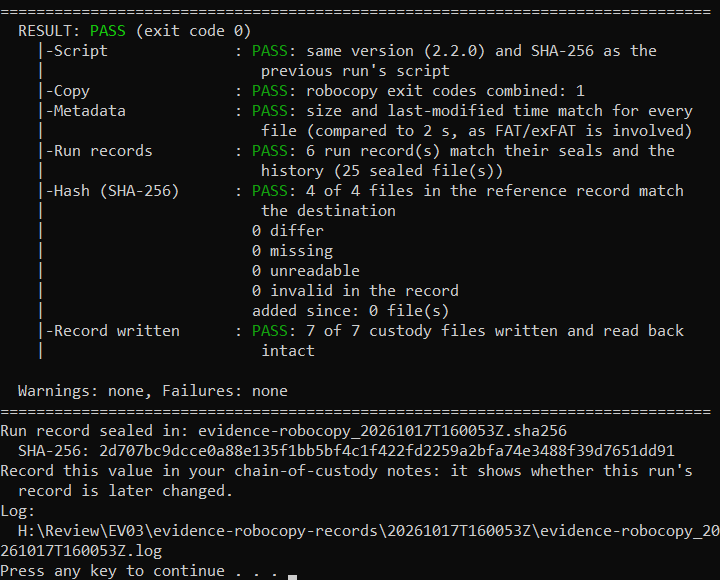
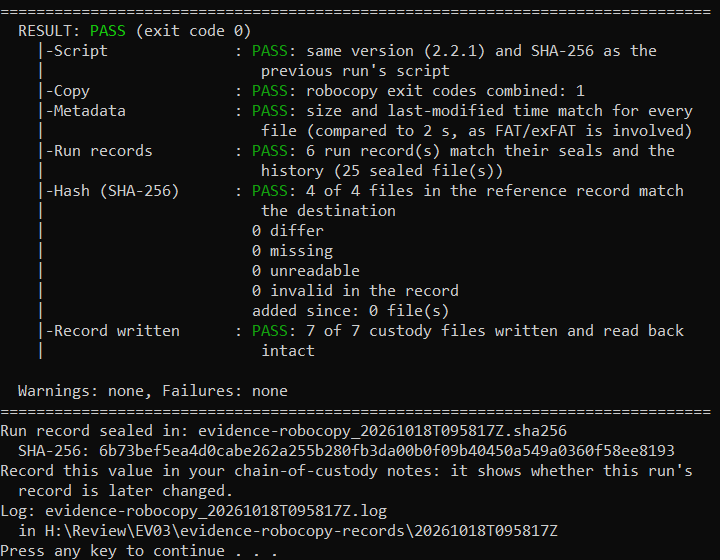
evidence-robocopy 2.2.1

diff --git a/README.md b/README.md
@@ -350,16 +350,16 @@ Warnings (read before relying on this copy)
   Findings made after the copy (such as links not copied) are in the summary.
 
 Environment
-  Script              : evidence-robocopy 2.2.0
+  Script              : evidence-robocopy 2.2.1
   Script path         : C:\Tools\evidence-robocopy.bat
-  Script SHA-256      : d392af8197ef68000290523ef0172b595e0f9fcddcf688d36eecd01f9534e5e8
+  Script SHA-256      : d88f9bc4dcdb36d7e6c7111be134454dce5de438739dd0e9362162dfcb264f61
   Mode                : forensic (default): log, SHA-256 verification and run
                          records
-  Started (UTC)       : 2026-10-17T14:25:41Z (source: robocopy)
+  Started (UTC)       : 2026-10-18T09:56:26Z (source: robocopy)
   Local UTC offset    : +01:00 (robocopy's Started/Ended and ERROR times are
                          local; its file times are UTC)
   Time source         : time.windows.com,0x9
-  Last time sync      : 17/10/2026 13:05:11 (local time, as w32tm reports it)
+  Last time sync      : 18/10/2026 10:42:33 (local time, as w32tm reports it)
   Host                : WORKSTATION-01
   User                : workstation-01\analyst (SID
                          S-1-5-21-1111111111-2222222222-3333333333-1001)
@@ -379,65 +379,65 @@ Environment
                          verification reads file contents from the drive
 
 Source
-  Set directory       : C:\Cases\Case-0042\EV03\
-  Evidence directory  : C:\Cases\Case-0042\EV03\Images\
+  Set directory       : G:\EV03\
+  Evidence directory  : G:\EV03\Images\
   Chosen              : S2: the directory holds the custody files: it is the
                          set directory
-  Volume              : Volume in drive C is OS; serial 1A2B-3C4D; NTFS
+  Volume              : Volume in drive G is TRANSFER; serial 1A2B-3C4D; exFAT
   Skipped at root     : n/a (not a drive root)
-  Reference record    : evidence-robocopy-records\20261017T142458Z\evidence-robocopy_20261017T142458Z_hashes_source.csv
+  Reference record    : evidence-robocopy-records\20261018T095602Z\evidence-robocopy_20261018T095602Z_hashes_source.csv
                          (row 1 of the history)
   History             : 2 earlier run(s); this is run 3
-  Previous run        : 20261017T142518Z (PASS, host WORKSTATION-01)
+  Previous run        : 20261018T095611Z (PASS, host WORKSTATION-01)
                         seal SHA-256:
[2 lines of base64/hex data omitted]
 
 Destination
-  Set directory       : C:\Processing\EV03\
-  Evidence directory  : C:\Processing\EV03\Images\
+  Set directory       : H:\Processing\EV03\
+  Evidence directory  : H:\Processing\EV03\Images\
   Chosen              : D3: the directory is empty or holds only a directory
                          with the evidence directory's name: it is the set
                          directory
   Was                 : new set (empty, or only an empty evidence directory)
-  Volume              : Volume in drive C is OS; serial 1A2B-3C4D; NTFS
-  Run record          : C:\Processing\EV03\evidence-robocopy-records\20261017T142541Z\
-  Log                 : C:\Processing\EV03\evidence-robocopy-records\20261017T142541Z\evidence-robocopy_20261017T142541Z.log
-  Log during run      : C:\Users\analyst\AppData\Local\Temp\evidence-robocopy_20261017T142541Z_8247_staging\records\evidence-robocopy_20261017T142541Z.log
+  Volume              : Volume in drive H is PROCESSING; serial 5E6F-7A8B; NTFS
+  Run record          : H:\Processing\EV03\evidence-robocopy-records\20261018T095626Z\
+  Log                 : H:\Processing\EV03\evidence-robocopy-records\20261018T095626Z\evidence-robocopy_20261018T095626Z.log
+  Log during run      : C:\Users\analyst\AppData\Local\Temp\evidence-robocopy_20261018T095626Z_546_staging\records\evidence-robocopy_20261018T095626Z.log
 ===============================================================================
 
 -------------------------------------------------------------------------------
 Script: checked against the previous run
-  Script              : PASS: same version (2.2.0) and SHA-256 as the previous
+  Script              : PASS: same version (2.2.1) and SHA-256 as the previous
                          run's script
 
 [...]
 
 -------------------------------------------------------------------------------
 Run records: against the history and their seals
-Run record 20261017T142458Z: 5 file(s) match its seal, 0 problem(s).
+Run record 20261018T095602Z: 5 file(s) match its seal, 0 problem(s).
   Seal SHA-256:
[1 lines of base64/hex data omitted]
-Run record 20261017T142518Z: 4 file(s) match its seal, 0 problem(s).
[1 lines of base64/hex data omitted]
+Run record 20261018T095611Z: 4 file(s) match its seal, 0 problem(s).
   Seal SHA-256:
[2 lines of base64/hex data omitted]
 
 -------------------------------------------------------------------------------
 Hash (SHA-256): destination vs reference record
-  evidence-robocopy_20261017T142458Z_hashes_source.csv
+  evidence-robocopy_20261018T095602Z_hashes_source.csv
 
 -------------------------------------------------------------------------------
 Summary
-  Finished (UTC)      : 2026-10-17T14:26:02Z
+  Finished (UTC)      : 2026-10-18T09:56:42Z
   Script copy         : placed in the destination set directory as
                          evidence-robocopy.bat; its SHA-256 matches the Script
                          SHA-256 above
-  Reference record    : evidence-robocopy_20261017T142458Z_hashes_source.csv
+  Reference record    : evidence-robocopy_20261018T095602Z_hashes_source.csv
                         matches its seal
-                         evidence-robocopy_20261017T142458Z.sha256
+                         evidence-robocopy_20261018T095602Z.sha256
                         seal SHA-256:
[2 lines of base64/hex data omitted]
   History             : run 3 (2 earlier run(s) in the history)
-  Log                 : C:\Processing\EV03\evidence-robocopy-records\20261017T142541Z\evidence-robocopy_20261017T142541Z.log
+  Log                 : H:\Processing\EV03\evidence-robocopy-records\20261018T095626Z\evidence-robocopy_20261018T095626Z.log
 
   Warnings (did not fail the run)
     none
@@ -451,14 +451,14 @@ The copy completed, every file in the reference record is in the destination
 
 ===============================================================================
   RESULT: PASS (exit code 0)
-    |-Script              : PASS: same version (2.2.0) and SHA-256 as the
+    |-Script              : PASS: same version (2.2.1) and SHA-256 as the
     |                        previous run's script
     |-Copy                : PASS: robocopy exit codes combined: 1
     |-Metadata            : PASS: size and last-modified time match for every
-    |                        file (compared exact)
+    |                        file (compared to 2 s, as FAT/exFAT is involved)
     |-Run records         : PASS: 2 run record(s) match their seals and the
     |                        history (9 sealed file(s))
-    |-Hash (SHA-256)      : PASS: 48 of 48 files in the reference record match
+    |-Hash (SHA-256)      : PASS: 4 of 4 files in the reference record match
     |                        the destination
     |                       0 differ
     |                       0 missing

diff --git a/CHANGELOG.md b/CHANGELOG.md
@@ -5,12 +5,25 @@ All notable changes to this project are documented in this file.
 The format is based on [Keep a Changelog](https://keepachangelog.com/en/1.1.0/),
 and this project adheres to [Semantic Versioning](https://semver.org/spec/v2.0.0.html).
 
+## 2.2.1 - 2026-10-18
+
+### Changed
+- The closing lines give the log's file name, then its directory on a line
+  of its own, so an 80-column console doesn't split the path.
+
+### Fixed
+- Hashing is back to 2.1.1's speed, slightly faster: the per-file progress
+  line on screen is written directly when it fits.
+- On screen, colour marks statuses only: PASS, FAIL, NOT RUN, `[FAIL]` or
+  `[WARN]` in a file name stay plain. The summary's Reference record shows
+  a failed seal check in red, like every other status.
+
 ## 2.2.0 - 2026-10-17
 
-Known issues: hashing many small files is about 14 % slower than in 2.1.1
-(the per-file progress line on screen). On screen, PASS, FAIL, NOT RUN,
-`[FAIL]` or `[WARN]` in a file name can be coloured as if it were a status;
-the words, the log and the records are not affected.
+Known issues (fixed in 2.2.1): hashing many small files is about 14 %
+slower than in 2.1.1 (the per-file progress line on screen). On screen,
+PASS, FAIL, NOT RUN, `[FAIL]` or `[WARN]` in a file name can be coloured as
+if it were a status; the words, the log and the records are not affected.
 
 ### Added
 - Console colour where the console supports it: PASS green, WARN yellow,
